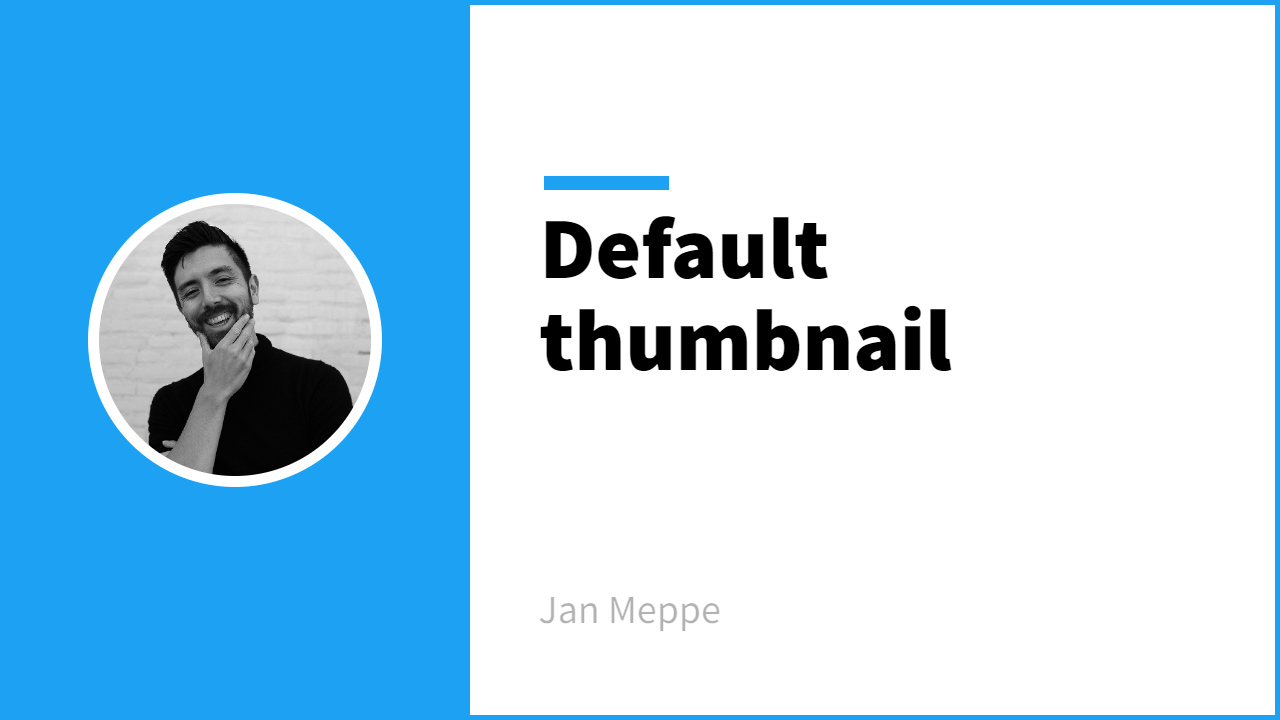
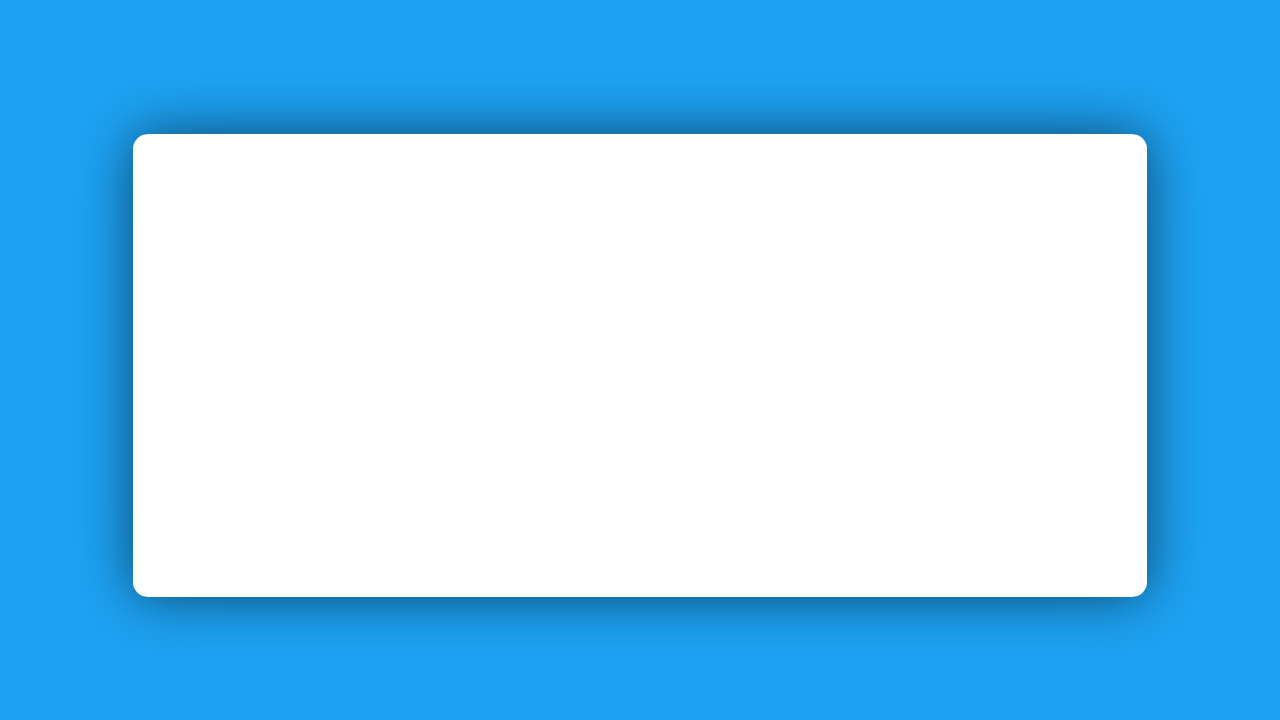
Initial commit

diff --git a/new-post.py b/new-post.py
@@ -34,6 +34,7 @@ tags:
 - career
 
 # Big themes that I write about
+- advent of code
 - engineering
 - software architecture
 - management

diff --git a/_posts/2025-01-02-advent-of-code-2024-in-rust.md b/_posts/2025-01-02-advent-of-code-2024-in-rust.md
@@ -1,0 +1,292 @@
+---
+title: "Advent of Code 2024 in Rust"
+date: 2025-01-02
+tags:
+- blog
+- work
+- rust
+- advent of code
+categories: blog
+toc: false
+toc_sticky: false
+header:
+    teaser: "/../assets/2025-01-02-advent-of-code-2024-in-rust/thumbnail.png"
+---
+<!-- ctrl + alt + v -->
+
+**tl;dr Did Advent of Code (AOC) 2024 in Rust and got 27 stars ⭐**
+
+
+![](/../assets/2025-01-02-advent-of-code-2024-in-rust/2025-01-02-22-44-23.png)
+
+Last year I used Advent of Code (AOC) to try out Golang, this year I used AOC to learn rust.
+
+The challenge where we had to find this christmas tree being made by a swarm of drones was pretty fun
+
+![](/../assets/2025-01-02-advent-of-code-2024-in-rust/2025-01-02-22-46-58.png)
+
+
+# The programming language is a detail
+
+When you squint hard enough, the programming language you solve AOC with is an implementation detail.
+
+I think it’s nice if you can solve the problem “in your head” (on paper) and then you only need to write the implementation in any programming language, hence, a detail.
+
+With python I did not feel the need to solve it on paper first. With rust I do.
+
+I noticed that for the AOC challenges done in python you can just hack away at your liking because the language is very flexible and iterative. 
+
+For Rust and also Golang I’m noticing that I get a lot of value out of thinking of the whole flow first on paper, the data structures, and then programming it all in. I guess this is because the language is less flexible.
+
+# Rust is fast
+
+Rust is faaast.
+
+One thing I noticed immediately in the first couple of days is that rust is really fast. The first day my runtime of part 1 and 2 was 0.8ms. On the second day I got a runtime of part 1 and 2 of 13ms. Coming from Python this is like having super speed unlocked, which is an awesome feeling.
+
+# In Rust you “can not use the same variable twice”
+
+Rust's ownership system is what makes it fast, but it also makes you think a bit about how memory is laid out. The learning curve is steep and I'm learning it now, or attempting to at least.
+
+Here's a small example, coming from someone that works with Python.
+
+One rule of the ownership system is that every variable has one owner and exactly one owner. When this owner goes out of scope the variable is dropped. 
+
+A consequence of this is that you "can not use the same variable twice". For example:
+
+```python
+a=10 # a owns 10
+b=foo(a) # b now owns 10, a no longer owns 10
+```
+
+Now you can not use `a` anymore because ownership was given to `b`. 
+
+This ownership system is what makes Rust fast, but also what makes it difficult to work with.
+
+I know I did a terrible job explaining the ownership system, but this makes it somewhat understandable from a Pythonista perspective, I think.
+
+# I am learning on ChatGPT quite a bit and it’s great
+
+I am using chatgpt to write a lot of code
+
+I was always a bit skeptical but man chat gpt is a big help.
+
+Yes, I am writing a lot of shitty code. No it might not be the best code. but it is code that works and the output that I am able to output with chatgpt is like 10x the normal speed at which I can develop.
+
+for me, the learning curve now is producing working rust code, not writing the best rust code. for me, good is now working. whether I wrote it or whehther chatgpt wrote it. 
+
+Honestly this is what we do write? We write tests that fix our behaviour and then we write code to make it pass. but there are many versions of the code that make it pass so, wy not have chatgpt write another one? 
+
+honestly, chatgpt thinks betterof the edge cases than i do.
+
+computers don’t make mistakes, humans do
+
+im finally seeing the power of chatgpt.
+
+Honestly, ChatGPT is really great. Especially for fighting WITH the borrow checker. Inputting an Error gives me some explainer in normal people language that a noob like me can work with.
+
+ChatGPT shouldn’t become a crutch that I should lean on too heavily. But at the same time people use Google as a crutch as well. It works, for me, now.
+
+# I struggled with and learned how and when to use references
+
+I struggled quite a lot in trying to understand when to use a borrow or a mutable borrow and in that struggle I think I gained some experience fighting the borrow checker. 
+
+Before, I would just change my code until it worked, but then I found some information on the internet
+
+![](/../assets/2025-01-02-advent-of-code-2024-in-rust/2025-01-02-22-44-49.png)
+
+I learned that you want to follow the principle of LEAST permission. So the order goes something like this: first a borrow, then a mutable borrow, and then full variable ownership.
+
+Or this one
+
+![](/../assets/2025-01-02-advent-of-code-2024-in-rust/2025-01-02-22-44-59.png)
+
+https://www.reddit.com/r/learnrust/comments/133iqe4/comment/jiaakgd/?utm_source=share&utm_medium=web3x&utm_name=web3xcss&utm_term=1&utm_content=share_button
+
+Talking with another colleague he explained it as follows: Try to write functions that return new types themselves and then just pass in borrowed values, then you don’t need to think about ownership all that much.
+
+# In the beginning I leaned into ChatGPT really hard
+
+I let ChatGPT write me a lot of rust code.
+
+I’m not sure if this was a good move, but it produced working rust code. I realized it was/is a crutch that needs replacing at some point. But my whole point was not to write perfect rust code. The challenge for me was to **write working rust code** and that would solve the advent of code challenge. 
+
+# Impressed by ChatGPT
+
+I am quite impressed with the Rust code that ChatGPT writes.
+
+It writes code that is literal to your spec and not elegant, but it is an AI trained on the collective minds of everyone that it was trained on. If you give good and atomic specifications, it does spit out working code, and that’s quite impressive to me.
+
+I do have to admit that writing out the solution on paper helped a lot.
+
+# Reflections after day 4
+
+Having small test cases for the normal use cases and edge cases helps a lot.
+
+Having a test for reading in the data really helps.
+
+Write out the solution on paper before and think about the functions you need.
+
+In essence what you are making is a function mapping `filename -> solution`
+
+You have to read in, parse, solve, and return, and that’s it.
+
+ChatGPT is writing crazy good code.
+
+Tests help A LOT with reproducibility of the solution.
+
+TESTS HELP A LOT. 
+
+Can not be repeated often enough.
+
+# ChatGPT actually makes mistakes
+
+I experienced that for some very simple parsing questions, ChatGPT made a lot of annoying off-by-one errors. I sort of expected it? Maybe? But it was still  a bit annoying. An example:
+
+```python
+convert this
+
+............
+........0. .. <== three dots ". .."
+.....0 .. .. ..
+.......0....
+....0 .. .. .. .
+......A.....
+............
+............
+........A...
+.........A..
+............
+............
+
+ to a vec<vec<char>>
+```
+
+Notice that the second line has 3 dots on the right.
+
+However, the converted vector has four dots.
+
+```python
+let grid: Vec<Vec<char>> = vec![
+    vec!['.', '.', '.', '.', '.', '.', '.', '.', '.', '.', '.', '.'],
+    vec!['.', '.', '.', '.', '.', '.', '.', '0', '.', '.', '.', '.'], four dots
+    vec!['.', '.', '.', '.', '.', '0', '.', '.', '.', '.', '.', '.'],
+    vec!['.', '.', '.', '.', '.', '.', '.', '0', '.', '.', '.', '.'],
+    vec!['.', '.', '.', '.', '0', '.', '.', '.', '.', '.', '.', '.'],
+    vec!['.', '.', '.', '.', '.', '.', 'A', '.', '.', '.', '.', '.'],
+    vec!['.', '.', '.', '.', '.', '.', '.', '.', '.', '.', '.', '.'],
+    vec!['.', '.', '.', '.', '.', '.', '.', '.', '.', '.', '.', '.'],
+    vec!['.', '.', '.', '.', '.', '.', '.', '.', 'A', '.', '.', '.'],
+    vec!['.', '.', '.', '.', '.', '.', '.', '.', '.', 'A', '.', '.'],
+    vec!['.', '.', '.', '.', '.', '.', '.', '.', '.', '.', '.', '.'],
+    vec!['.', '.', '.', '.', '.', '.', '.', '.', '.', '.', '.', '.'],
+];
+```
+
+# Trick: You can represent a grid of numbers with a hashmap
+
+This is a technique that I saw somewhere in someone’s Rust solution and that I will be stealing for sure. 
+
+You can represent a grid like `grid[row][col]` with a hashmap instead. This allows you to do out of bounds checking by simply checking if the key does or does not exist. This blew my mind.
+
+# Integer division fucked me up a couple of times
+
+I learned painfully that integer division works like you’d expect from integer division (
+
+```python
+let num_a = p1 * d / denominator - p2 * b / denominator;
+let num_b = p2 /denominator * a - p1 / denominator * c;
+// let num_b = p2 /denominator * a - p1 / denominator * c;
+
+```
+
+![](/../assets/2025-01-02-advent-of-code-2024-in-rust/2025-01-02-22-45-17.png)
+
+# Hashmap initialization
+
+Learned how to do this initialization. There are probably nicer and better ways. But this is one of them I guess. Something I had to do quite often in AOC
+
+![](/../assets/2025-01-02-advent-of-code-2024-in-rust/2025-01-02-22-45-30.png)
+
+# Wrapping around grids can be annoying
+
+There was one problem where I had to wrap around a grid which was a bit annoying. I solved this by taking the modulo in the end.
+
+
+> To fix this problem, we add numRows to i before taking the modulo numRows. This ensures that we're always taking the modulo of a positive number. Now we can count the number of live cells among the eight neighbors of grid[row][col] as follows.
+
+
+# What I would have done differently
+
+In hindsight I should have and would have liked to invest more in “the basics”
+
+Basics like how do vectors work, what is `.iter()`, how does `.collect()` work etc.
+
+But honestly without a really good reason to do these they are less FUN than just solving these little puzzles and grinding your way through.
+
+Solving these programming puzzles, with no matter how shitty code, is fun and engaging. 
+
+It’s what keeps me learning.
+
+So whatever you do, whatever crutch you need (I used ChatGPT), try to STAY ENGAGED! 
+
+![](/../assets/2025-01-02-advent-of-code-2024-in-rust/2025-01-02-22-46-29.png)
+
+# Invest in debugging tools
+
+One thing that I can suggest is to invest in debugging tools.
+
+Like if you have a grid, ask ChatGPT to write a function to print it out. 
+
+Especially for the later puzzles, they are hard with many edge cases.
+
+You will forget something and probably won’t get it correct on the first try.
+
+To hedge this, invest in your debugging toolkit where you can print out the state and have it match with the exercise at hand. 
+
+
+![](/../assets/2025-01-02-advent-of-code-2024-in-rust/2025-01-02-22-46-58.png)
+
+# Mistakenly used binary XOR for to the power
+
+I used `2^x` to try and to the power something, but this is the binary XOR operator. Oops
+
+![image.png](https://prod-files-secure.s3.us-west-2.amazonaws.com/1144a8ce-bde0-4492-ba49-02139859b5c2/184e2c12-3f31-45a6-a265-03724be9c552/image.png)
+
+```yaml
+let num = (A / 2^combo.get(&operand).expect(""));
+
+```
+
+num = 1013 but should be 1012 because a = 2024
+
+# Thanks Reddit
+
+I was stuck on some problem and then someone on Reddit gave this hint and I had exactly the same problem. I fixed the first division but there were 2 other instances I had to fix. Thanks Reddit.
+
+> Part 1 is a nice simple bytecode interpreter, but with quite a few opportunities for bugs. I coded it slowly and carefully, but forgot to actually do the division in the division opcode, and when I fixed the bug I forgot there were two other division opcodes to fix.
+>
+
+
+# Subscribe
+
+<!-- Begin Mailchimp Signup Form -->
+<link href="//cdn-images.mailchimp.com/embedcode/horizontal-slim-10_7.css" rel="stylesheet" type="text/css">
+<style type="text/css">
+#mc_embed_signup{background:#fff; clear:left; font:14px Helvetica,Arial,sans-serif; width:100%;}
+/* Add your own Mailchimp form style overrides in your site stylesheet or in this style block.
+    We recommend moving this block and the preceding CSS link to the HEAD of your HTML file. */
+</style>
+<div id="mc_embed_signup">
+<form action="https://gmail.us3.list-manage.com/subscribe/post?u=92fe86c389878585bc87837e8&amp;id=50543deff9" method="post" id="mc-embedded-subscribe-form" name="mc-embedded-subscribe-form" class="validate" target="_blank" novalidate>
+    <div id="mc_embed_signup_scroll">
+<label for="mce-EMAIL">I blog about how to grow as a machine learning engineer! Liked this article and want to hear more? Join 40+ others and subscribe!</label>
+<input type="email" value="" name="EMAIL" class="email" id="mce-EMAIL" placeholder="email address" required>
+    <!-- real people should not fill this in and expect good things - do not remove this or risk form bot signups-->
+    <div style="position: absolute; left: -5000px;" aria-hidden="true"><input type="text" name="b_92fe86c389878585bc87837e8_50543deff9" tabindex="-1" value=""></div>
+    <div class="clear"><input type="submit" value="Subscribe" name="subscribe" id="mc-embedded-subscribe" class="button"></div>
+    </div>
+</form>
+</div>
+<!--End mc_embed_signup-->
+    
